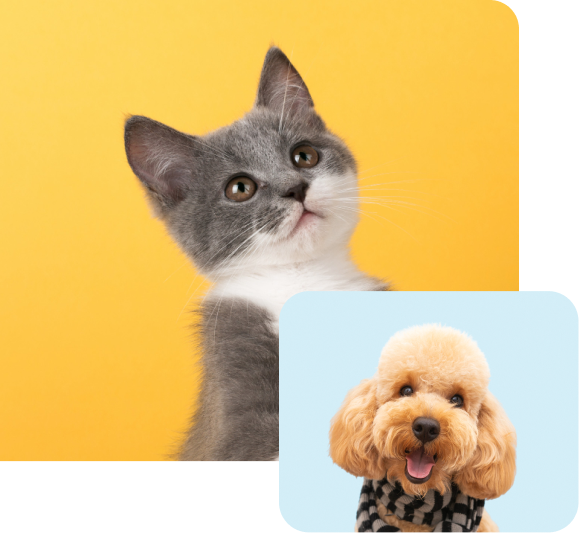
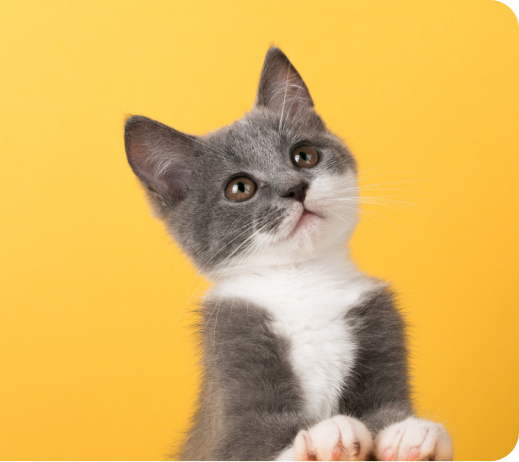
img

diff --git a/src/Components/Let.jsx b/src/Components/Let.jsx
@@ -11,11 +11,7 @@ const Let = () => {
         <section className='bg_section_1 py-5'>
             <Container className=' pb-lg-5'>
                 <Row className='pb-5'>
-<<<<<<< HEAD
-                    <Col lg={6} className='mt-5' data-aos="fade-down-right" data-aos-duration="2000">
-=======
-                    <Col lg={6} className='mt-5'>
->>>>>>> c794ab23dd867f252fb4ce8324f7273a26aa9183
+                        <Col lg={6} className='mt-5'>
                         <p className='fw_400 fs_45 ff_Slackey clr_dark_blue text-center text-lg-start'>Lets book a call and stay connected </p>
                         <div className=' d-flex mt-4 flex-column flex-sm-row align-items-center'>
                             <div className=' d-flex align-items-center'>
@@ -32,11 +28,7 @@ const Let = () => {
                             <p className='w_500 fs_18 ff_Poppins clr_dark_blue Call ms-sm-5 mt-2'><span><img src={coll} /></span> Emergency Call</p>
                         </div>
                     </Col>
-<<<<<<< HEAD
-                    <Col lg={6} className='mt-4 mt-sm-0 position-relative' data-aos="fade-up-left" data-aos-duration="2000">
-=======
                     <Col lg={6} className='mt-4 mt-sm-0 position-relative'>
->>>>>>> c794ab23dd867f252fb4ce8324f7273a26aa9183
                         <img className=' w-100' src={let_2} />
                         <img src={plus} className='green_plus position-absolute grow_up' />
                         <img src={plus_red} className='plus_red position-absolute rotate_animation' />

diff --git a/src/Components/Mynav.jsx b/src/Components/Mynav.jsx
@@ -2,6 +2,7 @@ import React, { useState } from 'react'
 import { Container, Nav, Row, Col } from 'react-bootstrap'
 import { BiMenu } from 'react-icons/bi';
 import hero from '../assets/hero.png'
+import hero_2 from '../assets/hero_2.png'
 import img_1 from '../assets/img_1.png'
 import img_2 from '../assets/img_2.png'
 import img_3 from '../assets/img_3.png'
@@ -54,7 +55,8 @@ const Mynav = () => {
         <Container className='pb-sm-5'>
           <Row>
             <Col xl={5}>
-              <img className='W_min position-absolute start-0' src={hero} />
+              <img className='W_min position-absolute start-0 position-relative' src={hero} />
+              <img className='W_min position-absolute start-0 w-25' src={hero_2} />
               <img src={dog_foot} className=' position-absolute nav_foot grow_up' />
             </Col>
             <Col xl={7} className='px-lg-5 mt_max p-sm-4 position-relative d-flex flex-column align-items-center align-items-xl-start' data-aos="fade-down" data-aos-duration="2000">
